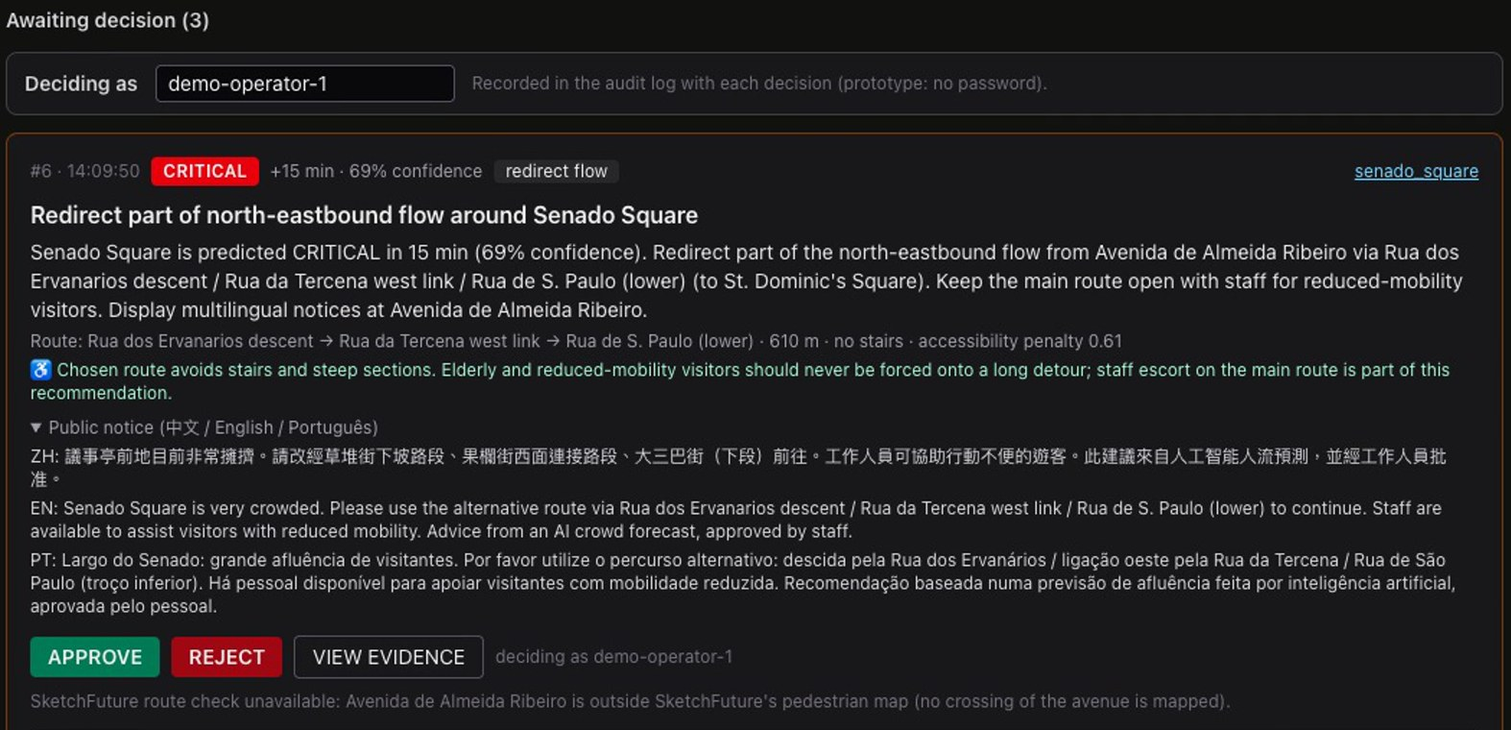
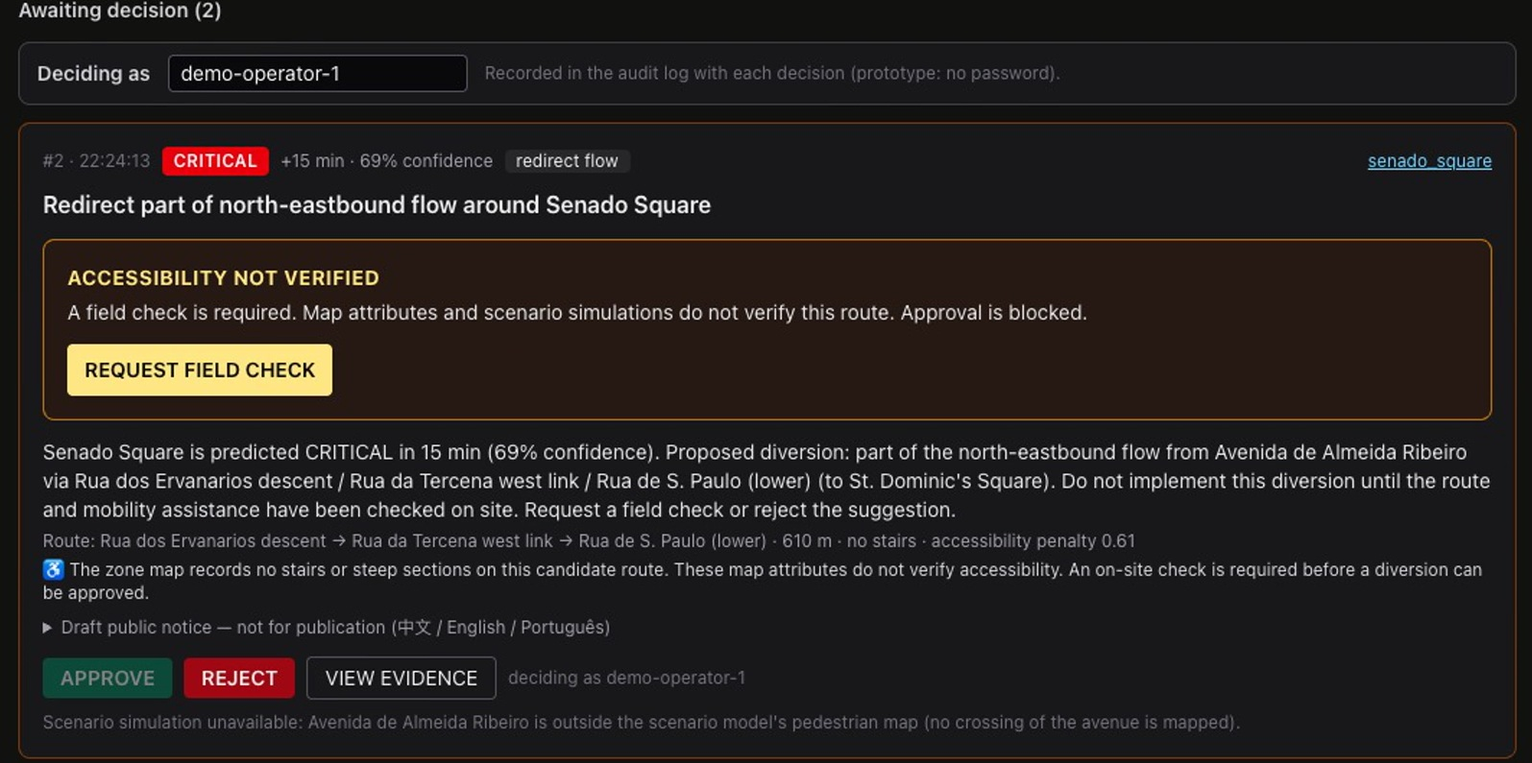
Block unverified diversions and integrate scenario review into CrowdPulse

Changed region(s): [[0.0, 0.0, 0.9962, 0.9987], [0.9651, 0.9684, 0.9962, 0.9987]]

diff --git a/dashboard/src/app/interventions/page.tsx b/dashboard/src/app/interventions/page.tsx
@@ -6,12 +6,13 @@ import type { AuditEntry, Config, Intervention, Prediction } from "@/lib/types";
 import { RiskBadge } from "@/components/Badges";
 import { SketchFutureCheck } from "@/components/SketchFutureCheck";
 import { OperatorField } from "@/components/OperatorField";
+import { RouteReview, diversionApprovalBlocked } from "@/components/RouteReview";
 import { useOperatorName } from "@/lib/operator";
 import { auditDetails, localDateTime, localTime, pct } from "@/lib/format";
 
 export default function Interventions() {
   const { data: ivs, mutate } = useApi<Intervention[]>("/interventions?limit=100", 3000);
-  const { data: audit } = useApi<AuditEntry[]>("/audit?limit=50", 5000);
+  const { data: audit, mutate: refreshAudit } = useApi<AuditEntry[]>("/audit?limit=50", 5000);
   const { data: config } = useApi<Config>("/config", 60000);
   const [evidence, setEvidence] = useState<Intervention | null>(null);
   const [busy, setBusy] = useState<number | null>(null);
@@ -20,14 +21,24 @@ export default function Interventions() {
   const others = (ivs ?? []).filter((i) => i.status !== "pending");
   const decide = async (iv: Intervention, approve: boolean) => {
     if (!signer) return;
+    if (approve && diversionApprovalBlocked(iv)) return;
     setBusy(iv.id);
-    try { await post(`/interventions/${iv.id}/${approve ? "approve" : "reject"}`, { operator: signer, note: approve ? "approved from dashboard" : "rejected from dashboard" }); await mutate(); }
+    const note = !approve && iv.kind === "redirect_flow" ? "Rejected: route accessibility not verified; field check required." : approve ? "approved from dashboard" : "rejected from dashboard";
+    try { await post(`/interventions/${iv.id}/${approve ? "approve" : "reject"}`, { operator: signer, note }); await Promise.all([mutate(), refreshAudit()]); }
     catch (e) { alert(String(e)); } finally { setBusy(null); }
+  };
+  const requestCheck = async (iv: Intervention) => {
+    if (!signer) return;
+    setBusy(iv.id);
+    try {
+      await post(`/interventions/${iv.id}/request-field-check`, { operator: signer, note: "Route accessibility not verified; request on-site inspection." });
+      await Promise.all([mutate(), refreshAudit()]);
+    } catch (e) { alert(String(e)); } finally { setBusy(null); }
   };
   return (
     <div className="space-y-4">
       <h1 className="text-xl font-bold">Interventions</h1>
-      <p className="text-sm text-zinc-400">The system recommends; you decide. Approvals and rejections are written to the audit log under the name in “Deciding as”. In the live simulation an approved redirect/inflow reduction is applied to the crowd model so the forecast is recalculated.</p>
+      <p className="text-sm text-zinc-400">CrowdPulse recommends; staff review the evidence and decide. Unverified diversions remain blocked. Requests and decisions are logged under the self-declared name in “Deciding as”.</p>
       <section className="space-y-3">
         <h2 className="text-sm font-semibold text-zinc-300">Awaiting decision ({pending.length})</h2>
         <OperatorField />
@@ -43,15 +54,16 @@ export default function Interventions() {
               <Link href={`/zones/${iv.zone_id}`} className="ml-auto text-xs text-sky-300 underline">{iv.zone_id}</Link>
             </div>
             <h3 className="mt-2 text-base font-semibold">{iv.title}</h3>
+            <RouteReview iv={iv} disabled={busy === iv.id || !signer} onRequest={() => requestCheck(iv)} />
             <p className="mt-1 text-sm text-zinc-200">{iv.recommendation}</p>
             {iv.route && <p className="mt-1 text-xs text-zinc-400">Route: {iv.route.edges.join(" → ")} · {iv.route.length_m} m · {iv.route.has_stairs ? "has stairs" : "no stairs"} · accessibility penalty {iv.route.accessibility_penalty}</p>}
-            {iv.accessibility?.note && <p className="mt-1 text-xs text-emerald-200">♿ {String(iv.accessibility.note)}</p>}
+            {iv.accessibility?.note && <p className="mt-1 text-xs text-zinc-300">♿ {String(iv.accessibility.note)}</p>}
             {Object.keys(iv.messages).length > 0 && (
-              <details className="mt-2 text-xs text-zinc-300"><summary className="cursor-pointer text-zinc-400">Public notice (中文 / English / Português)</summary>
+              <details className="mt-2 text-xs text-zinc-300"><summary className="cursor-pointer text-zinc-400">Draft public notice — not for publication (中文 / English / Português)</summary>
                 <ul className="mt-1 space-y-1"><li>ZH: {iv.messages.zh}</li><li>EN: {iv.messages.en}</li><li>PT: {iv.messages.pt}</li></ul></details>
             )}
             <div className="mt-3 flex flex-wrap items-center gap-2">
-              <button disabled={busy === iv.id || !signer} title={problem ?? undefined} className="rounded bg-emerald-700 px-3 py-1 text-sm font-semibold hover:bg-emerald-600 disabled:cursor-not-allowed disabled:opacity-50 disabled:hover:bg-emerald-700" onClick={() => decide(iv, true)}>APPROVE</button>
+              <button disabled={busy === iv.id || !signer || diversionApprovalBlocked(iv)} title={problem ?? iv.approval_block_reason ?? (diversionApprovalBlocked(iv) ? "Route verification required" : undefined)} className="rounded bg-emerald-700 px-3 py-1 text-sm font-semibold hover:bg-emerald-600 disabled:cursor-not-allowed disabled:opacity-50 disabled:hover:bg-emerald-700" onClick={() => decide(iv, true)}>APPROVE</button>
               <button disabled={busy === iv.id || !signer} title={problem ?? undefined} className="rounded bg-red-800 px-3 py-1 text-sm font-semibold hover:bg-red-700 disabled:cursor-not-allowed disabled:opacity-50 disabled:hover:bg-red-800" onClick={() => decide(iv, false)}>REJECT</button>
               <button className="rounded border border-zinc-600 px-3 py-1 text-sm hover:bg-zinc-800" onClick={() => setEvidence(evidence?.id === iv.id ? null : iv)}>VIEW EVIDENCE</button>
               {problem ? <span className="text-xs text-amber-200" data-testid="decision-hint">{problem}</span> : <span className="text-xs text-zinc-500">deciding as {signer}</span>}

diff --git a/dashboard/src/components/SketchFutureCheck.tsx b/dashboard/src/components/SketchFutureCheck.tsx
@@ -12,24 +12,24 @@ export function SketchFutureCheck({ iv, crosswalk, compact = false }: { iv: Inte
   const check = buildSketchFutureCheck(iv, crosswalk);
   if (!check.ok) {
     if (compact) return null;
-    return <p className="mt-2 text-xs text-zinc-500" data-testid="sketchfuture-unavailable">SketchFuture route check unavailable: {check.reason.replace(/\.$/, "")}.</p>;
+    return <p className="mt-2 text-xs text-zinc-500" data-testid="sketchfuture-unavailable">Scenario simulation unavailable: {check.reason.replace(/SketchFuture's/g, "the scenario model's").replace(/\.$/, "")}.</p>;
   }
   const { plan } = check;
   const { corridor } = plan;
   const zh = (id: string) => crosswalk?.zones[id]?.name_zh ?? id;
-  if (compact) return <a href={plan.url} target="_blank" rel="noreferrer" className="text-xs text-violet-300 underline" data-testid="sketchfuture-link">test in SketchFuture ↗</a>;
+  if (compact) return <a href={plan.url} target="_blank" rel="noreferrer" className="text-xs text-violet-300 underline" data-testid="sketchfuture-link">scenario simulation ↗</a>;
   return (
     <div className="mt-3 rounded border border-violet-800/60 bg-violet-950/30 p-3 text-xs" data-testid="sketchfuture-check">
       <div className="flex flex-wrap items-center gap-3">
-        <span className="font-semibold text-violet-200">Route check in SketchFuture</span>
-        <a href={plan.url} target="_blank" rel="noreferrer" data-testid="sketchfuture-link" className="rounded bg-violet-700 px-3 py-1 text-sm font-semibold text-white hover:bg-violet-600">TEST IN SKETCHFUTURE ↗</a>
+        <span className="font-semibold text-violet-200">CrowdPulse · Scenario simulation</span>
+        <a href={plan.url} target="_blank" rel="noreferrer" data-testid="sketchfuture-link" className="rounded bg-violet-700 px-3 py-1 text-sm font-semibold text-white hover:bg-violet-600">OPEN SCENARIO SIMULATION ↗</a>
       </div>
       <p className="mt-1 text-zinc-300">
-        Opens SketchFuture with the <b>{corridor.name}</b> corridor closed ({corridor.streets.join("、")}, {corridor.close.length} segment{corridor.close.length === 1 ? "" : "s"}) and compares the same walkers, wheelchair users and stroller users on Macau&apos;s OSM streets, with queues.
-        {corridor.direct_m != null && corridor.detour_m != null && <> In SketchFuture&apos;s map the shortest walking route {zh(corridor.from)} ↔ {zh(corridor.to)} grows from {corridor.direct_m} m to {corridor.detour_m} m.</>}
+        Tests the <b>{corridor.name}</b> corridor closed ({corridor.streets.join("、")}, {corridor.close.length} segment{corridor.close.length === 1 ? "" : "s"}) and compares the same walkers, wheelchair users and stroller users on Macau&apos;s OSM streets, with queues.
+        {corridor.direct_m != null && corridor.detour_m != null && <> In this street model the shortest walking route {zh(corridor.from)} ↔ {zh(corridor.to)} grows from {corridor.direct_m} m to {corridor.detour_m} m.</>}
       </p>
       <p className="mt-1 text-zinc-500">
-        Model check, not evidence: a full closure is the extreme case of the assumed partial redirect; SketchFuture&apos;s cohort walks between Senado Square / St. Dominic&apos;s / Rua da Tercena and the Ruins / Museum under its own assumptions{crosswalk?.model_version ? ` (model ${crosswalk.model_version})` : ""}. Reduced-mobility visitors keep the main route with staff, as this recommendation says.
+        A full closure is a stress test of the proposed partial diversion. These are modelled journeys, not verification of the actual alternative route{crosswalk?.model_version ? ` (model ${crosswalk.model_version})` : ""}. An on-site check is still required; opening this model does not enable approval.
       </p>
     </div>
   );

diff --git a/dashboard/src/__tests__/operator.test.tsx b/dashboard/src/__tests__/operator.test.tsx
@@ -128,3 +128,40 @@ describe("decisions carry the operator's name", () => {
     expect(api.post).toHaveBeenCalledWith("/alerts/3/ack", { operator: "demo-operator-1" });
   });
 });
+
+describe("unverified diversion review", () => {
+  const diversion: Intervention = {
+    ...pendingIv, kind: "redirect_flow", title: "Proposed diversion around Senado Square",
+    approval_blocked: false, // even a legacy/incorrect allow flag must not bypass the route policy
+    accessibility: { note: "Map records no stairs; field evidence is missing." },
+  };
+  it("blocks approval with a valid name while allowing field-check requests and rejection", async () => {
+    api.data['/interventions'] = [diversion];
+    render(<Interventions />);
+    typeName('demo-operator-1');
+    expect(button('APPROVE')).toBeDisabled();
+    expect(button('REJECT')).toBeEnabled();
+    expect(screen.getByTestId('route-review')).toHaveTextContent('ACCESSIBILITY NOT VERIFIED');
+    fireEvent.click(button('APPROVE'));
+    expect(api.post).not.toHaveBeenCalled();
+    await act(async () => { fireEvent.click(button('REQUEST FIELD CHECK')); });
+    expect(api.post).toHaveBeenCalledWith('/interventions/7/request-field-check', {
+      operator: 'demo-operator-1', note: 'Route accessibility not verified; request on-site inspection.',
+    });
+  });
+  it("keeps requested checks visibly unverified and records the reason for rejection", async () => {
+    api.data['/interventions'] = [{ ...diversion, accessibility: {
+      verification_status: 'not_verified', field_check_requested_at: '2026-10-20T04:00:00Z',
+      field_check_requested_by: 'demo-operator-1',
+    } }];
+    render(<Interventions />);
+    typeName('demo-operator-2');
+    expect(screen.getByRole('status')).toHaveTextContent('Request logged; route still not verified');
+    expect(screen.queryByRole('button', { name: 'REQUEST FIELD CHECK' })).toBeNull();
+    expect(button('APPROVE')).toBeDisabled();
+    await act(async () => { fireEvent.click(button('REJECT')); });
+    expect(api.post).toHaveBeenCalledWith('/interventions/7/reject', {
+      operator: 'demo-operator-2', note: 'Rejected: route accessibility not verified; field check required.',
+    });
+  });
+});

diff --git a/dashboard/src/__tests__/sketchfuture.test.tsx b/dashboard/src/__tests__/sketchfuture.test.tsx
@@ -59,16 +59,16 @@ describe("SketchFuture card section", () => {
   it("renders the test button with the plan link and the model caveat", () => {
     render(<SketchFutureCheck iv={redirect} crosswalk={crosswalk} />);
     const link = screen.getByTestId("sketchfuture-link");
-    expect(link).toHaveTextContent("TEST IN SKETCHFUTURE");
+    expect(link).toHaveTextContent("OPEN SCENARIO SIMULATION");
     expect(link).toHaveAttribute("target", "_blank");
     expect(link.getAttribute("href")).toContain("/#plan=");
     expect(screen.getByTestId("sketchfuture-check")).toHaveTextContent("Largo de S. Domingos link corridor closed (議事亭前地, 3 segments)");
     expect(screen.getByTestId("sketchfuture-check")).toHaveTextContent("grows from 125 m to 216 m");
-    expect(screen.getByTestId("sketchfuture-check")).toHaveTextContent("extreme case of the assumed partial redirect");
+    expect(screen.getByTestId("sketchfuture-check")).toHaveTextContent("stress test of the proposed partial diversion");
   });
   it("says why a check is unavailable, and renders nothing for non-redirects", () => {
     const { rerender } = render(<SketchFutureCheck iv={{ ...redirect, route: { ...redirect.route!, from: "almeida_ribeiro" } }} crosswalk={crosswalk} />);
-    expect(screen.getByTestId("sketchfuture-unavailable")).toHaveTextContent("outside SketchFuture's pedestrian map");
+    expect(screen.getByTestId("sketchfuture-unavailable")).toHaveTextContent("outside the scenario model's pedestrian map");
     rerender(<SketchFutureCheck iv={{ ...redirect, kind: "deploy_staff", route: null }} crosswalk={crosswalk} />);
     expect(screen.queryByTestId("sketchfuture-unavailable")).toBeNull();
     expect(screen.queryByTestId("sketchfuture-link")).toBeNull();

diff --git a/dashboard/src/components/RouteReview.tsx b/dashboard/src/components/RouteReview.tsx
@@ -1,0 +1,26 @@
+import type { Intervention } from "@/lib/types";
+
+/** Fail closed for redirects, including responses from an older backend without the policy fields. */
+export function diversionApprovalBlocked(iv: Intervention): boolean {
+  return iv.kind === "redirect_flow" || iv.approval_blocked === true;
+}
+
+export function RouteReview({ iv, disabled, onRequest }: {
+  iv: Intervention; disabled: boolean; onRequest: () => void;
+}) {
+  if (iv.kind !== "redirect_flow") return null;
+  const requestedAt = iv.accessibility?.field_check_requested_at;
+  const requestedBy = iv.accessibility?.field_check_requested_by;
+  return (
+    <div className="my-3 rounded-lg border border-amber-500/70 bg-amber-950/30 p-4" data-testid="route-review">
+      <p className="text-sm font-bold tracking-wide text-amber-200">ACCESSIBILITY NOT VERIFIED</p>
+      <p className="mt-1 text-sm text-zinc-200">A field check is required. Map attributes and scenario simulations do not verify this route. Approval is blocked.</p>
+      {requestedAt ? (
+        <p className="mt-3 text-sm text-amber-100" role="status">Field check requested by {String(requestedBy)}. Request logged; route still not verified.</p>
+      ) : (
+        <button className="mt-3 rounded bg-amber-200 px-3 py-2 text-sm font-semibold text-zinc-950 hover:bg-amber-100 disabled:cursor-not-allowed disabled:opacity-50"
+          disabled={disabled} onClick={onRequest}>REQUEST FIELD CHECK</button>
+      )}
+    </div>
+  );
+}

diff --git a/dashboard/src/lib/types.ts b/dashboard/src/lib/types.ts
@@ -38,6 +38,7 @@ export interface Alert { id: number; zone_id: string; created_at: string; level:
 export interface Route { from: string; to: string; via: string[]; edges: string[]; length_m: number; has_stairs: boolean; steep: boolean; min_capacity_per_min: number; accessibility_penalty: number; score: number }
 
 export interface Intervention {
+  approval_blocked?: boolean; approval_block_reason?: string | null;
   id: number; zone_id: string; created_at: string; status: "pending" | "approved" | "rejected" | "expired" | "superseded"; kind: string; title: string; recommendation: string;
   rationale: string[]; predicted_class: CongestionClass | null; horizon_min: number | null; confidence: number | null; low_confidence: boolean;
   route: Route | null; route_alternatives: Route[]; accessibility: Record<string, unknown> & { note?: string }; messages: Record<string, string>;

diff --git a/sketchfuture/src/App.tsx b/sketchfuture/src/App.tsx
@@ -544,13 +544,13 @@ export default function App() {
         <a
           className="brand"
           href="#workspace"
-          aria-label="SketchFuture 街道實驗室"
+          aria-label="CrowdPulse 方案模擬"
         >
           <span className="brand-mark">
             <Icon name="map" />
           </span>
           <span>
-            SketchFuture<small>澳門街道實驗室</small>
+            CrowdPulse<small>方案模擬 · 澳門街道</small>
           </span>
         </a>
         <div className="header-actions glass">

diff --git a/sketchfuture/index.html b/sketchfuture/index.html
@@ -5,7 +5,7 @@
     <meta name="viewport" content="width=device-width, initial-scale=1.0" />
     <meta name="theme-color" content="#eef2fa" />
     <meta name="description" content="在澳門街區畫出一個改動，探索不同使用者的路程、等待與可達性取捨。" />
-    <title>SketchFuture — 畫一筆，看看城市的另一種可能</title>
+    <title>CrowdPulse Macau — 方案模擬</title>
   </head>
   <body><div id="root"></div><script type="module" src="/src/main.tsx"></script></body>
 </html>

diff --git a/sketchfuture/src/core/storage.ts b/sketchfuture/src/core/storage.ts
@@ -4,7 +4,7 @@ import { applyEdits, freshWorkspace, MODEL_VERSION, PROFILES } from "./model";
 export const STORAGE_KEY = "sketchfuture.workspace.v1";
 export function parseWorkspace(text: string, map: MapData): Workspace {
   if (text.length > 250_000)
-    throw new Error("方案檔案太大，請使用 SketchFuture 匯出的 JSON。");
+    throw new Error("方案檔案太大，請使用 CrowdPulse 方案模擬匯出的 JSON。");
   const value = JSON.parse(text) as Record<string, unknown>;
   if (
     !value ||

diff --git a/backend/tests/test_route_review.py b/backend/tests/test_route_review.py
@@ -1,0 +1,93 @@
+"""Unverified diversions cannot be approved through UI bypass or legacy metadata."""
+from datetime import timedelta
+
+import pytest
+
+from backend.app.db import session_scope
+from backend.app.models import Intervention
+from backend.app.services.engine import get_engine
+from backend.app.services.intervention import build_recommendation
+from shared.config import load_config, load_zone_graph
+from shared.geo import bearing_deg
+
+
+def make_candidate(source="st_dominic", *, kind=None, accessibility=None, expired=False):
+    engine = get_engine()
+    graph = load_zone_graph()
+    zones = {z["id"]: z for z in graph["zones"]}
+    a, b = zones[source], zones["senado_square"]
+    states = {source: {"density": .8, "flow_speed_mps": .8, "flow_coherence": .9,
+                        "flow_direction_deg": bearing_deg(a["lat"], a["lon"], b["lat"], b["lon"])}}
+    prediction = {"predicted_class": "CRITICAL", "effective_confidence": .9,
+                  "low_confidence": False, "horizon_min": 15, "reasons": ["Test scenario"]}
+    if kind == "deploy_staff":
+        prediction["predicted_class"] = "WARNING"
+    rec = build_recommendation(b, graph, states, prediction, load_config())
+    assert rec["kind"] == (kind or "redirect_flow")
+    if accessibility is not None:
+        rec["accessibility"] = accessibility
+    now = engine.clock.now()
+    with session_scope() as db:
+        iv = Intervention(zone_id=b["id"], created_at=now, status="pending", **rec,
+                          expires_at=now + timedelta(minutes=-1 if expired else 20))
+        db.add(iv)
+        db.flush()
+        return iv.id
+
+
+@pytest.mark.parametrize("source", ["st_dominic", "almeida_ribeiro"])
+def test_model_coverage_does_not_enable_diversion_approval(client, source):
+    iv_id = make_candidate(source)
+    iv = client.get(f"/interventions/{iv_id}").json()
+    assert iv["approval_blocked"] is True
+    assert "on site" in iv["approval_block_reason"]
+    assert "map records" in iv["accessibility"]["note"]
+    assert "not_verified" == iv["accessibility"]["verification_status"]
+    refused = client.post(f"/interventions/{iv_id}/approve", json={"operator": "demo-operator-1"})
+    assert refused.status_code == 409
+    unchanged = client.get(f"/interventions/{iv_id}").json()
+    assert unchanged["status"] == "pending" and not unchanged["effect_applied"]
+    assert unchanged["projected_after"] is None and unchanged["decided_by"] is None
+    assert not [a for a in client.get('/audit').json() if a['action'] == 'intervention_approved']
+
+
+@pytest.mark.parametrize("metadata", [{}, {"verification_status": "verified", "model_check_passed": True}])
+def test_legacy_or_self_declared_metadata_cannot_bypass_server_policy(client, metadata):
+    iv_id = make_candidate(accessibility=metadata)
+    body = {"operator": "demo-operator-1", "approval_blocked": False, "verified": True}
+    assert client.post(f"/interventions/{iv_id}/approve", json=body).status_code == 409
+
+
+def test_field_request_is_persistent_idempotent_and_not_verification(client):
+    iv_id = make_candidate()
+    url = f"/interventions/{iv_id}/request-field-check"
+    response = client.post(url, json={"operator": " demo-operator-1 ", "note": "Inspect route width and obstructions."})
+    assert response.status_code == 200
+    initial = response.json()
+    assert initial["status"] == "pending" and initial["approval_blocked"]
+    assert initial["accessibility"]["field_check_requested_by"] == "demo-operator-1"
+    assert initial["accessibility"]["verification_status"] == "not_verified"
+    repeated = client.post(url, json={"operator": "demo-operator-2", "note": "Retry"}).json()
+    assert repeated["accessibility"] == initial["accessibility"]
+    assert client.get(f"/interventions/{iv_id}").json()["accessibility"] == initial["accessibility"]
+    assert client.post(f"/interventions/{iv_id}/approve", json={"operator": "demo-operator-1"}).status_code == 409
+    events = [a for a in client.get('/audit').json() if a['action'] == 'route_field_check_requested']
+    assert len(events) == 1 and events[0]["actor"] == "demo-operator-1"
+    assert events[0]["details"]["route_verified"] is False
+    rejected = client.post(f"/interventions/{iv_id}/reject", json={"operator": "demo-operator-1", "note": "Insufficient route evidence"})
+    assert rejected.status_code == 200 and rejected.json()["status"] == "rejected"
+    assert not rejected.json()["effect_applied"]
+    assert client.post(url, json={"operator": "demo-operator-1"}).status_code == 409
+
+
+def test_field_request_requires_name_pending_state_and_redirect_kind(client):
+    candidate = make_candidate()
+    assert client.post(f'/interventions/{candidate}/request-field-check', json={"operator": ""}).status_code == 422
+    assert client.post('/interventions/999/request-field-check', json={"operator": "demo-operator-1"}).status_code == 404
+    expired = make_candidate(expired=True)
+    assert client.post(f'/interventions/{expired}/request-field-check', json={"operator": "demo-operator-1"}).status_code == 409
+    assert client.post(f'/interventions/{expired}/approve', json={"operator": "demo-operator-1"}).status_code == 409
+    staff = make_candidate(kind='deploy_staff')
+    assert client.post(f'/interventions/{staff}/request-field-check', json={"operator": "demo-operator-1"}).status_code == 409
+    allowed = client.post(f'/interventions/{staff}/approve', json={"operator": "demo-operator-1"})
+    assert allowed.status_code == 200 and allowed.json()['approval_blocked'] is False

diff --git a/backend/app/services/engine.py b/backend/app/services/engine.py
@@ -19,6 +19,7 @@ from backend.app.db import session_scope
 from backend.app.models import Alert, AuditLog, Intervention, Observation, Prediction, Sensor, ZoneState
 from backend.app.services.clock import Clock, utc
 from backend.app.services.intervention import build_recommendation
+from backend.app.services.route_review import approval_block_reason
 from backend.app.services.live_sim import LiveSimulation
 from backend.app.services.prediction import ModelBundle, load_models, predict_zone, what_if_prediction
 from ml.pipeline.aggregation import OBS_COLUMNS, aggregate_zone_bins, assign_zone, observation_quality_weight
@@ -386,6 +387,11 @@ class Engine:
                 raise KeyError(iv_id)
             if iv.status != "pending":
                 raise ValueError(f"intervention {iv_id} already {iv.status}")
+            if iv.expires_at is not None and utc(iv.expires_at) <= now:
+                raise ValueError(f"intervention {iv_id} expired")
+            reason = approval_block_reason(iv.kind)
+            if approve and reason:
+                raise ValueError(reason)
             iv.status = "approved" if approve else "rejected"
             iv.decided_at, iv.decided_by, iv.decision_note = now, operator, note
             if approve:
@@ -398,6 +404,33 @@ class Engine:
                 if feat and self.models.loaded and mult < 1.0:
                     iv.projected_after = what_if_prediction(self.models, feat, mult)
             db.add(AuditLog(timestamp=now, actor=operator, action="intervention_approved" if approve else "intervention_rejected", target_type="intervention", target_id=str(iv.id), details={"zone_id": iv.zone_id, "kind": iv.kind, "note": note, "effect_applied_to_simulation": iv.effect_applied}))
+            db.flush()
+            db.refresh(iv)
+            return iv
+
+    def request_field_check(self, iv_id: int, operator: str, note: str | None) -> Intervention:
+        """Record a request, never an inspection result or permission to approve."""
+        now = self.clock.now()
+        with self.lock, session_scope() as db:
+            iv = db.get(Intervention, iv_id)
+            if iv is None:
+                raise KeyError(iv_id)
+            if iv.status != "pending":
+                raise ValueError(f"intervention {iv_id} already {iv.status}")
+            if iv.expires_at is not None and utc(iv.expires_at) <= now:
+                raise ValueError(f"intervention {iv_id} expired")
+            if iv.kind != "redirect_flow":
+                raise ValueError("field checks apply to proposed diversions")
+            access = dict(iv.accessibility or {})
+            if access.get("field_check_requested_at"):
+                return iv  # retry is idempotent; keep the original requester and audit event
+            access.update(verification_status="not_verified", field_check_requested_at=now.isoformat(),
+                          field_check_requested_by=operator, field_check_note=note)
+            iv.accessibility = access
+            db.add(AuditLog(timestamp=now, actor=operator, action="route_field_check_requested",
+                            target_type="intervention", target_id=str(iv.id),
+                            details={"zone_id": iv.zone_id, "note": note, "route_verified": False,
+                                     "approval_blocked": True}))
             db.flush()
             db.refresh(iv)
             return iv

diff --git a/backend/app/services/intervention.py b/backend/app/services/intervention.py
@@ -145,13 +145,14 @@ def build_recommendation(zone: dict[str, Any], graph: dict[str, Any], states: di
         route_name = " / ".join(route["edges"])
         access = {
             "route_has_stairs": route["has_stairs"], "route_steep": route["steep"], "route_length_m": route["length_m"], "accessibility_penalty": route["accessibility_penalty"],
-            "note": ("Chosen route avoids stairs and steep sections." if not (route["has_stairs"] or route["steep"]) else "Chosen route includes stairs/steep sections: keep the main route open with staff assistance for reduced-mobility visitors.")
-            + " Elderly and reduced-mobility visitors should never be forced onto a long detour; staff escort on the main route is part of this recommendation.",
+            "verification_status": "not_verified",
+            "note": ("The zone map records no stairs or steep sections on this candidate route." if not (route["has_stairs"] or route["steep"]) else "The zone map records stairs or steep sections on this candidate route.")
+            + " These map attributes do not verify accessibility. An on-site check is required before a diversion can be approved.",
         }
         edges_by_name = {e["name"]: e for e in graph["edges"]}
         msgs = public_messages("redirect_flow", zone, [edges_by_name[name] for name in route["edges"]])
         return {**base, "kind": "redirect_flow", "title": f"Redirect part of {direction or 'inbound'} flow around {zone['name']}",
-                "recommendation": f"{zone['name']} is predicted CRITICAL in {horizon} min ({conf:.0%} confidence). Redirect part of the {direction or 'inbound'} flow from {src_name} via {route_name} (to {zones[route['to']]['name']}). Keep the main route open with staff for reduced-mobility visitors. Display multilingual notices at {src_name}.",
+                "recommendation": f"{zone['name']} is predicted CRITICAL in {horizon} min ({conf:.0%} confidence). Proposed diversion: part of the {direction or 'inbound'} flow from {src_name} via {route_name} (to {zones[route['to']]['name']}). Do not implement this diversion until the route and mobility assistance have been checked on site. Request a field check or reject the suggestion.",
                 "rationale": rationale, "route": route, "route_alternatives": alternatives[:4], "accessibility": access, "messages": msgs,
                 "assumed_effect": {"inflow_reduction": reduction, "duration_min": 20, "note": f"Assumed effect (configurable prototype assumption, not validated): the forecast what-if scales the zone's inflow by {1 - reduction:.2f}; the live simulation makes routes into the zone {reduction:.0%} less attractive for 20 min, so its inflow falls by less."}}
     msgs = public_messages("reduce_inflow", zone)
